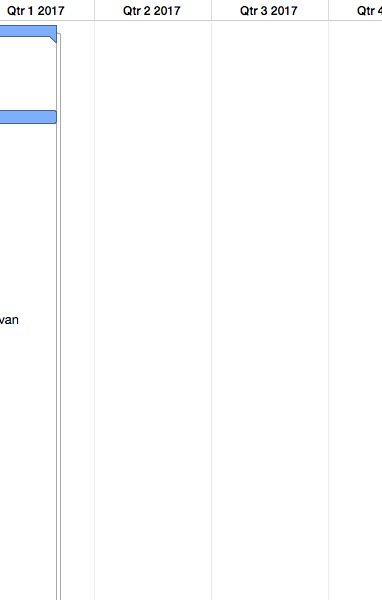
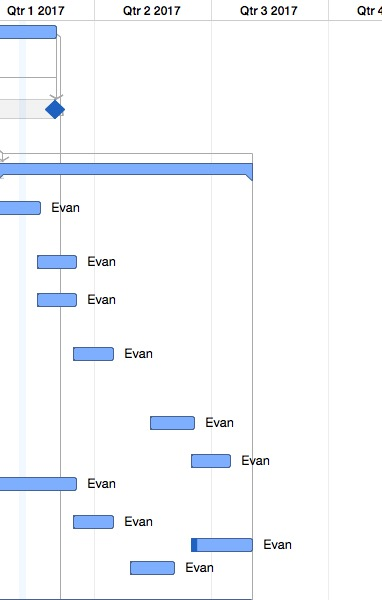
Updating gh-pages on Mon Feb  6 08:45:14 EST 2017

diff --git a/task.html b/task.html
@@ -67,7 +67,7 @@
                 <td>4/25/16, 8:15 AM</td>
                 <td>11/1/17, 5:00 PM</td>
                 <td>79w 2d 7.75h</td>
-                <td>55%</td>
+                <td>56%</td>
                 <td></td>
                 <td class="total"></td>
                 <td></td>
@@ -662,7 +662,7 @@
                 <td>1/16/17, 8:00 AM</td>
                 <td>8/1/17, 5:00 PM</td>
                 <td>28w 2d</td>
-                <td>0%</td>
+                <td>1%</td>
                 <td>4</td>
                 <td class="total"></td>
                 <td></td>
@@ -679,7 +679,7 @@
                 <td>1/16/17, 8:00 AM</td>
                 <td>2/16/17, 5:00 PM</td>
                 <td>4w 4d</td>
-                <td>0%</td>
+                <td>6%</td>
                 <td></td>
                 <td class="total"></td>
                 <td>Evan</td>
@@ -777,7 +777,7 @@
             </tr>
             
             <tr class="taskTypeTask">
-                <td style="padding-left: 28px;" class="wrap">5.7) Use Terraform to create abstract cloud configurations for AWS and Azure</td>
+                <td style="padding-left: 28px;" class="wrap">5.7) Use Terraform to create abstract cloud configurations for AWS, Azure, Google</td>
                 <td>1/16/17, 8:00 AM</td>
                 <td>3/16/17, 5:00 PM</td>
                 <td>8w 4d</td>
@@ -794,24 +794,7 @@
             </tr>
             
             <tr class="taskTypeTask">
-                <td style="padding-left: 28px;" class="wrap">5.8) Use Packer to create rudimentary disk images (if necessary), although cloud-init should handle the entire process</td>
-                <td>1/16/17, 8:00 AM</td>
-                <td>1/16/17, 5:00 PM</td>
-                <td>1d</td>
-                <td>0%</td>
-                <td></td>
-                <td class="total"></td>
-                <td>Evan</td>
-                <td></td>
-                <td></td>
-                <td>12/12/16, 8:00 AM</td>
-                <td></td>
-                <td></td>
-                <td></td>
-            </tr>
-            
-            <tr class="taskTypeTask">
-                <td style="padding-left: 28px;" class="wrap">5.9) Auto-build and test docker images</td>
+                <td style="padding-left: 28px;" class="wrap">5.8) Auto-build and test docker images</td>
                 <td>3/16/17, 8:00 AM</td>
                 <td>4/14/17, 5:00 PM</td>
                 <td>4w 2d</td>
@@ -828,11 +811,11 @@
             </tr>
             
             <tr class="taskTypeTask">
-                <td style="padding-left: 28px;" class="wrap">5.10) Implement monitoring for RCE Cloud</td>
+                <td style="padding-left: 28px;" class="wrap">5.9) Implement monitoring for RCE Cloud</td>
                 <td>6/16/17, 8:00 AM</td>
                 <td>8/1/17, 5:00 PM</td>
                 <td>6w 3d</td>
-                <td>0%</td>
+                <td>10%</td>
                 <td></td>
                 <td class="total"></td>
                 <td>Evan</td>
@@ -845,7 +828,7 @@
             </tr>
             
             <tr class="taskTypeTask">
-                <td style="padding-left: 28px;" class="wrap">5.11) Allow mounting of home directories - CI3/CI4 to Azure and CI3/CI4 to Amazon</td>
+                <td style="padding-left: 28px;" class="wrap">5.10) Allow mounting of home directories - CI3/CI4 to Azure and CI3/CI4 to Amazon</td>
                 <td>5/1/17, 8:00 AM</td>
                 <td>6/1/17, 5:00 PM</td>
                 <td>4w 4d</td>
@@ -862,7 +845,7 @@
             </tr>
             
             <tr class="taskTypeTask">
-                <td style="padding-left: 28px;" class="wrap">5.12) Pare down and migrate Puppet/Capistrano to GitHub with best practices</td>
+                <td style="padding-left: 28px;" class="wrap">5.11) Pare down and migrate Puppet/Capistrano to GitHub with best practices</td>
                 <td>1/16/17, 8:00 AM</td>
                 <td>8/1/17, 5:00 PM</td>
                 <td>28w 2d</td>
@@ -1137,6 +1120,6 @@
         </div><!-- end table wrap -->
 	</div>
     </div><!-- end contentwrap -->
-	 <p class="exported">Exported 12/12/16</p>
+	 <p class="exported">Exported 2/6/17</p>
 </body>
 </html>

diff --git a/eva.html b/eva.html
@@ -778,7 +778,7 @@
 	</tr>
 		
 	<tr>
-		<td style="padding-left: 28px;" class="wrap">5.7) Use Terraform to create abstract cloud configurations for AWS and Azure</td>
+		<td style="padding-left: 28px;" class="wrap">5.7) Use Terraform to create abstract cloud configurations for AWS, Azure, Google</td>
 		<td></td>
 		<td></td>
 		<td></td>
@@ -795,7 +795,7 @@
 	</tr>
 		
 	<tr>
-		<td style="padding-left: 28px;" class="wrap">5.8) Use Packer to create rudimentary disk images (if necessary), although cloud-init should handle the entire process</td>
+		<td style="padding-left: 28px;" class="wrap">5.8) Auto-build and test docker images</td>
 		<td></td>
 		<td></td>
 		<td></td>
@@ -812,7 +812,7 @@
 	</tr>
 		
 	<tr>
-		<td style="padding-left: 28px;" class="wrap">5.9) Auto-build and test docker images</td>
+		<td style="padding-left: 28px;" class="wrap">5.9) Implement monitoring for RCE Cloud</td>
 		<td></td>
 		<td></td>
 		<td></td>
@@ -829,7 +829,7 @@
 	</tr>
 		
 	<tr>
-		<td style="padding-left: 28px;" class="wrap">5.10) Implement monitoring for RCE Cloud</td>
+		<td style="padding-left: 28px;" class="wrap">5.10) Allow mounting of home directories - CI3/CI4 to Azure and CI3/CI4 to Amazon</td>
 		<td></td>
 		<td></td>
 		<td></td>
@@ -846,24 +846,7 @@
 	</tr>
 		
 	<tr>
-		<td style="padding-left: 28px;" class="wrap">5.11) Allow mounting of home directories - CI3/CI4 to Azure and CI3/CI4 to Amazon</td>
-		<td></td>
-		<td></td>
-		<td></td>
-		<td></td>
-		<td></td>
-		<td></td>
-		<td></td>
-		<td></td>
-		<td></td>
-		<td></td>
-		<td></td>
-		<td></td>
-		<td></td>
-	</tr>
-		
-	<tr>
-		<td style="padding-left: 28px;" class="wrap">5.12) Pare down and migrate Puppet/Capistrano to GitHub with best practices</td>
+		<td style="padding-left: 28px;" class="wrap">5.11) Pare down and migrate Puppet/Capistrano to GitHub with best practices</td>
 		<td></td>
 		<td></td>
 		<td></td>
@@ -1138,6 +1121,6 @@
         </div><!-- end table wrap -->
 	</div>
     </div><!-- end contentwrap -->
-	 <p class="exported">Exported 12/12/16</p>
+	 <p class="exported">Exported 2/6/17</p>
 </body>
 </html>

diff --git a/resource.html b/resource.html
@@ -58,8 +58,8 @@
                 <td style="padding-left: 10px;">Evan</td>
                 <td>4/25/16, 8:15 AM</td>
                 <td>8/1/17, 5:00 PM</td>
-                <td>224w 2d 2.25h</td>
-                <td>52%</td>
+                <td>224w 1d 2.25h</td>
+                <td>53%</td>
                 <td></td>
             </tr>
             
@@ -257,24 +257,15 @@
                 <td>1/16/17, 8:00 AM</td>
                 <td>2/16/17, 5:00 PM</td>
                 <td>4w 4d</td>
-                <td>0%</td>
+                <td>6%</td>
                 <td></td>
             </tr>
             
             <tr>
-                <td style="padding-left: 18px;" class="wrap taskTypeTask">Use Terraform to create abstract cloud configurations for AWS and Azure</td> 
+                <td style="padding-left: 18px;" class="wrap taskTypeTask">Use Terraform to create abstract cloud configurations for AWS, Azure, Google</td> 
                 <td>1/16/17, 8:00 AM</td>
                 <td>3/16/17, 5:00 PM</td>
                 <td>8w 4d</td>
-                <td>0%</td>
-                <td></td>
-            </tr>
-            
-            <tr>
-                <td style="padding-left: 18px;" class="wrap taskTypeTask">Use Packer to create rudimentary disk images (if necessary), although cloud-init should handle the entire process</td> 
-                <td>1/16/17, 8:00 AM</td>
-                <td>1/16/17, 5:00 PM</td>
-                <td>1d</td>
                 <td>0%</td>
                 <td></td>
             </tr>
@@ -365,7 +356,7 @@
                 <td>6/16/17, 8:00 AM</td>
                 <td>8/1/17, 5:00 PM</td>
                 <td>6w 3d</td>
-                <td>0%</td>
+                <td>10%</td>
                 <td></td>
             </tr>
             
@@ -468,6 +459,6 @@
         </div>
     </div><!-- end contentwrap -->
 
-    <p class="exported">Exported 12/12/16</p>
+    <p class="exported">Exported 2/6/17</p>
 </body>
 </html>

diff --git a/gantt.html b/gantt.html
@@ -30,29 +30,17 @@
 	<h1>RCECloud: Gantt Chart</h1>
 		<div class="tablewrap"><table border="0" cellspacing="0" cellpadding="0">
 <tr>
-	<td><img src="include/gantt0,0.jpg?nocacheTag=-476655410" border=0/></td>
-	<td><img src="include/gantt1,0.jpg?nocacheTag=-505209378" border=0/></td>
+	<td><img src="include/gantt0,0.jpg?nocacheTag=-1483749997" border=0/></td>
+	<td><img src="include/gantt1,0.jpg?nocacheTag=-1159905548" border=0/></td>
 </tr>
 <tr>
-	<td><img src="include/gantt0,1.jpg?nocacheTag=-1705112377" border=0/></td>
-	<td><img src="include/gantt1,1.jpg?nocacheTag=1035466877" border=0/></td>
-</tr>
-<tr>
-	<td><img src="include/gantt0,2.jpg?nocacheTag=-1487412844" border=0/></td>
-	<td><img src="include/gantt1,2.jpg?nocacheTag=-1089495713" border=0/></td>
-</tr>
-<tr>
-	<td><img src="include/gantt0,3.jpg?nocacheTag=-64243227" border=0/></td>
-	<td><img src="include/gantt1,3.jpg?nocacheTag=242306356" border=0/></td>
-</tr>
-<tr>
-	<td><img src="include/gantt0,4.jpg?nocacheTag=-1308916085" border=0/></td>
-	<td><img src="include/gantt1,4.jpg?nocacheTag=-130809963" border=0/></td>
+	<td><img src="include/gantt0,1.jpg?nocacheTag=-1942903896" border=0/></td>
+	<td><img src="include/gantt1,1.jpg?nocacheTag=954624296" border=0/></td>
 </tr>
 </table>
 </div>
 		</div>
 	</div><!-- end contentwrap -->
-	 <p class="exported">Exported 12/12/16</p>
+	 <p class="exported">Exported 2/6/17</p>
 
 </body>	

diff --git a/index.html b/index.html
@@ -32,8 +32,8 @@
 			<p class="number"><span class="data-missing">None</span></p>
 		</div>
 		<div id="completed" class="box">
-			<h2><span class="number">55%</span> Completed</h2>
-			<div id="bar"><div id="fill" style="width:55%;"></div></div>
+			<h2><span class="number">56%</span> Completed</h2>
+			<div id="bar"><div id="fill" style="width:56%;"></div></div>
 			<p><span class="label">Start:</span> 4/23/16, 12:00 AM</p>
 			<p><span class="label">End Date:</span> 11/1/17, 5:00 PM</p>
 			<p><span class="label">Variance:</span> <span class="data-missing">None</span></p>
@@ -59,8 +59,8 @@
                 <td style="padding-left: 10px;">Evan</td>
                 <td>4/25/16, 8:15 AM</td>
                 <td>8/1/17, 5:00 PM</td>
-                <td>224w 2d 2.25h</td>
-                <td>52%</td>
+                <td>224w 1d 2.25h</td>
+                <td>53%</td>
                 <td></td>
             </tr>
             
@@ -139,6 +139,6 @@
        
             </div><!-- end content-->
 	</div><!-- end contentwrap -->
-	 <p class="exported">Exported 12/12/16</p>
+	 <p class="exported">Exported 2/6/17</p>
 
 </body>	

diff --git a/timeline.html b/timeline.html
@@ -48,6 +48,6 @@
 </div>
 		</div>
 	</div><!-- end contentwrap -->
-	 <p class="exported">Exported 12/12/16</p>
+	 <p class="exported">Exported 2/6/17</p>
 
 </body>	

diff --git a/montecarlo.html b/montecarlo.html
@@ -86,6 +86,6 @@
 
 			</div>
 	</div><!-- end contentwrap -->
-	 <p class="exported">Exported 12/12/16</p>
+	 <p class="exported">Exported 2/6/17</p>
 
 </body>	
